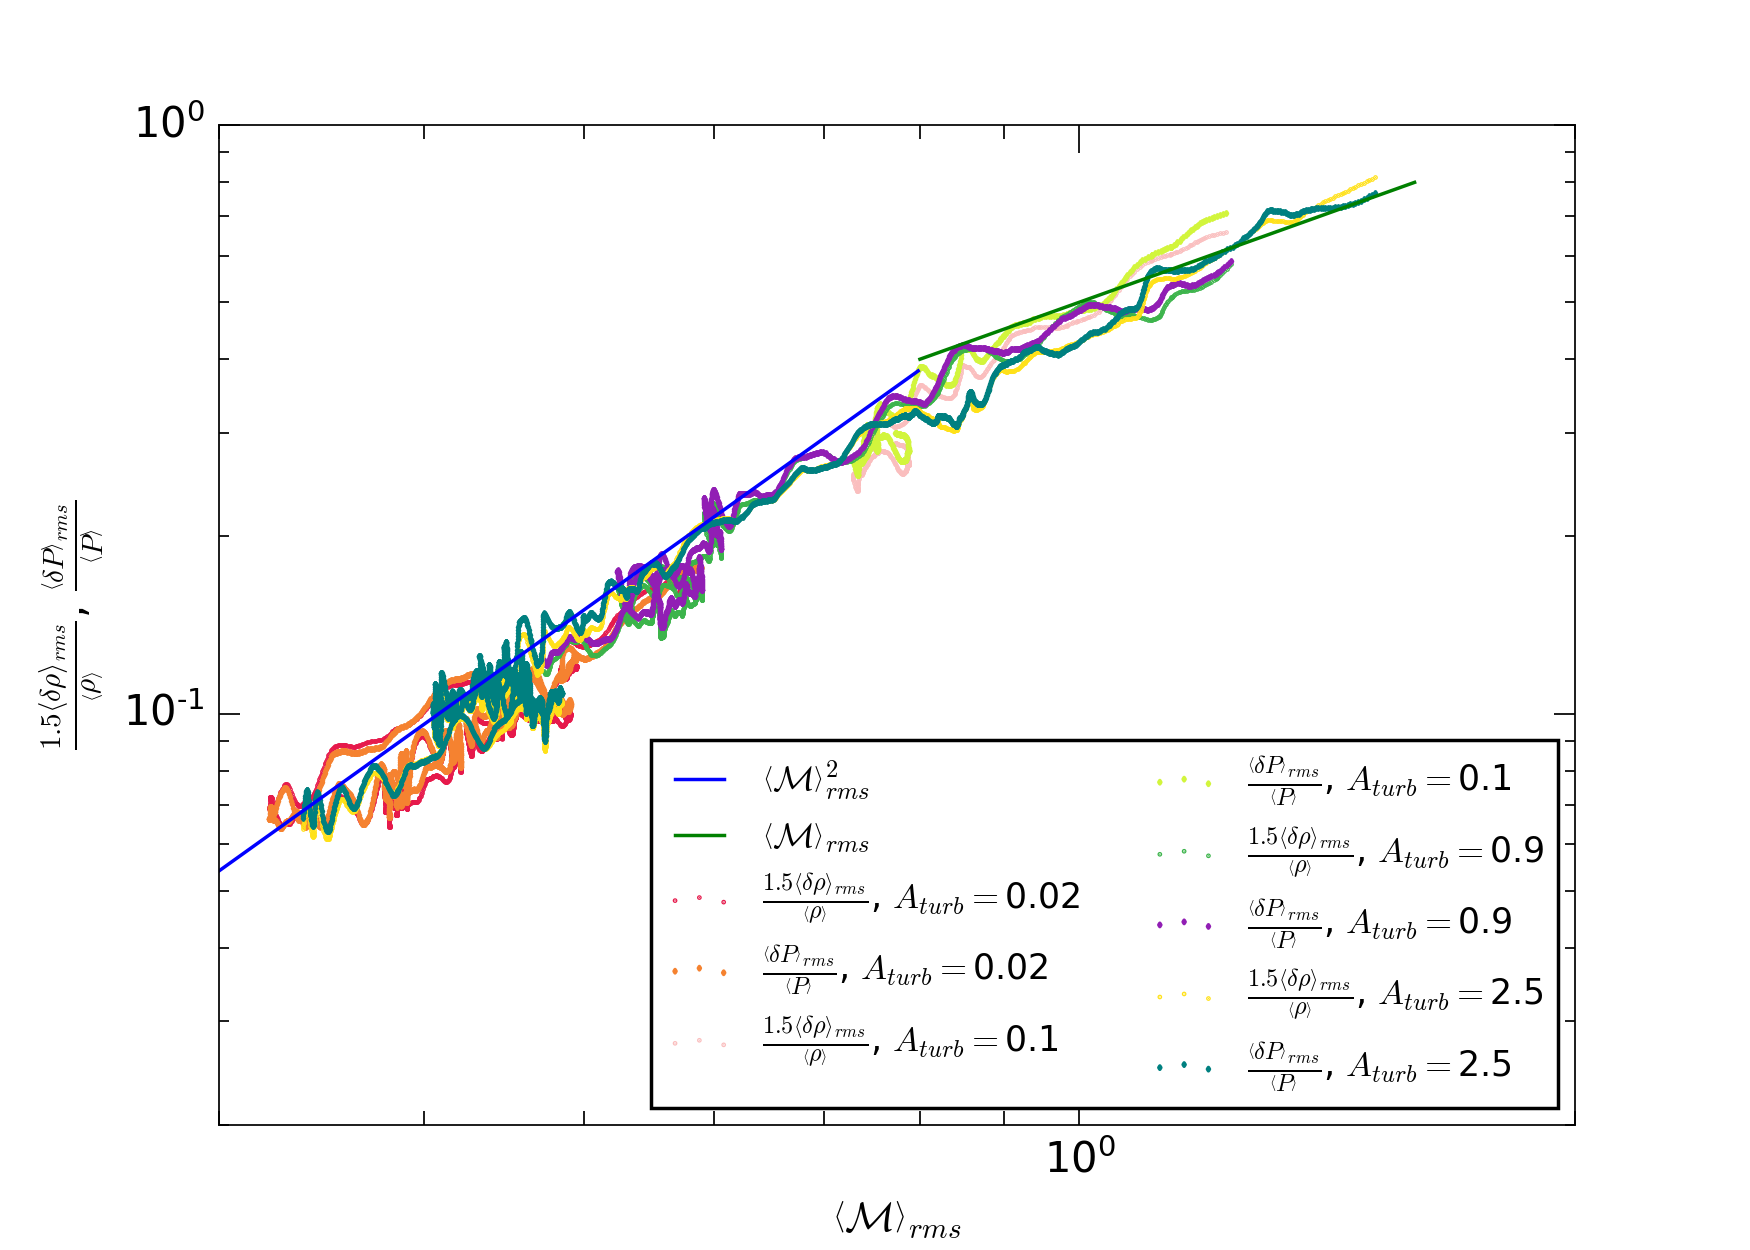
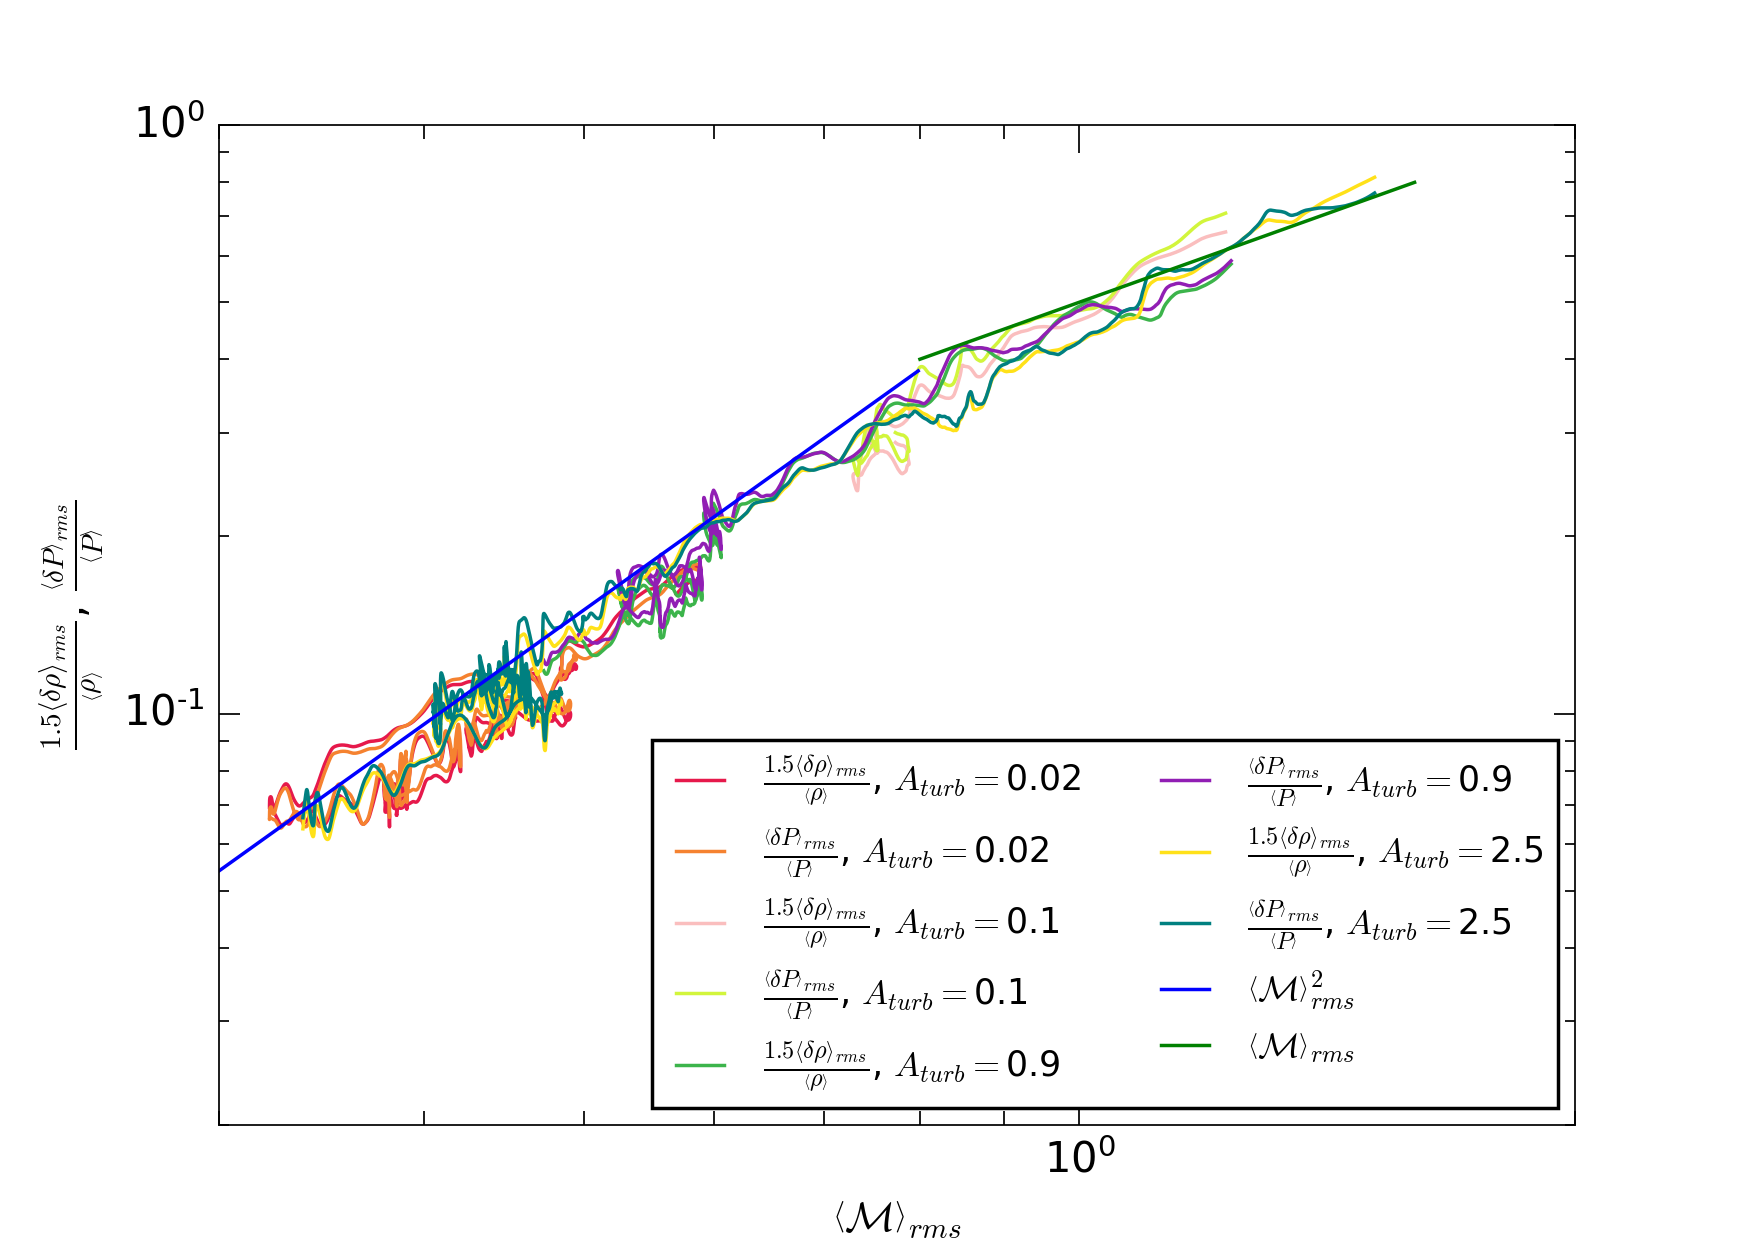
Edited plot

diff --git a/rho-mach/density_mach_256.py b/rho-mach/density_mach_256.py
@@ -37,8 +37,8 @@ for i1 in xrange(0,np.shape(amp)[0]):
 	data=data[:][i:]
 	#Ignore data before statistical equilibrium state
 	#Plot the data 
-	ax.scatter(data[:,11],1.5*data[:,12],label=r'$\frac{1.5\left<\delta\rho\right>_{rms}}{\left<\rho\right>}$, $A_{turb}=$'+str(amp[i1]), color=colors[i1], marker=".", s=0.5)
-	ax.scatter(data[:,11],data[:,13],label=r'$\frac{\left<\delta P\right>_{rms}}{\left< P\right>}$, $A_{turb}=$'+str(amp[i1]), color=colors[i1+5], marker="d", s=0.5)
+	ax.plot(data[:,11],1.5*data[:,12],label=r'$\frac{1.5\left<\delta\rho\right>_{rms}}{\left<\rho\right>}$, $A_{turb}=$'+str(amp[i1]), color=colors[i1], marker=".", markeredgecolor='none', markersize=0.1, linewidth=1)
+	ax.plot(data[:,11],data[:,13],label=r'$\frac{\left<\delta P\right>_{rms}}{\left< P\right>}$, $A_{turb}=$'+str(amp[i1]), color=colors[i1+5], marker="d", markeredgecolor='none', markersize=0.1, linewidth=1.0)
 
 fig.set_size_inches(7, 5)
 ax.set_xlabel(r'$\left< \mathcal{M}\right>_{rms}$')
